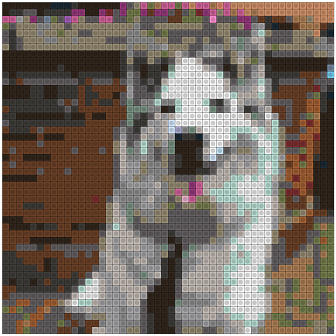
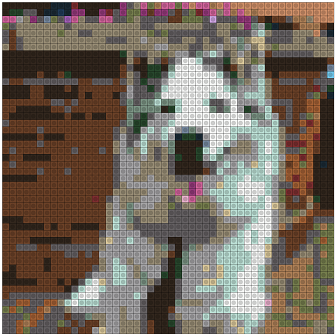
Remove Glow, Transparent and Metallic Bricks
- Update Readme images to be consistent with the removal of special bricks.

diff --git a/LEGO_functions.py b/LEGO_functions.py
@@ -124,7 +124,7 @@ def legoize_larger_bricks(lego_df):
 
             for index, row in groups.iterrows():
                 ax.add_patch(patches.Rectangle((wgroup*row.width-0.5, hgroup*row.height-0.5), 
-                                            wgroup, hgroup, fill=False, lw=2, color='black'))
+                                            wgroup, hgroup, fill=False, lw=3, color='black'))
 
     # Draw lego circles           
     for i in range(height):

diff --git a/Readme.md b/Readme.md
@@ -4,7 +4,7 @@
 This is an implementation of [**Ryan Timpe's LEGOMosaics**](https://github.com/ryantimpe/LEGOMosaics) in Python using Pillow and Pandas. Currently we can take an image and convert it to a groups of bricks [4x2, 2x2, 1x1] based on the [Offical LEGO color pallete](http://www.bartneck.de/wp-content/uploads/2016/09/2016-LEGO-color-palette.pdf) excluding metallic, transparent, and glow bricks.  
 
 ![](For_Readme/Bobcat_orig.jpg)
-![](For_Readme/Bobcat_lego.jpg)
+![](For_Readme/Bobcat_lego.png)
 ![](For_Readme/Bobcat_bricks.png)
 ![](For_Readme/Bobcat_bricks_grouped.png)
 
